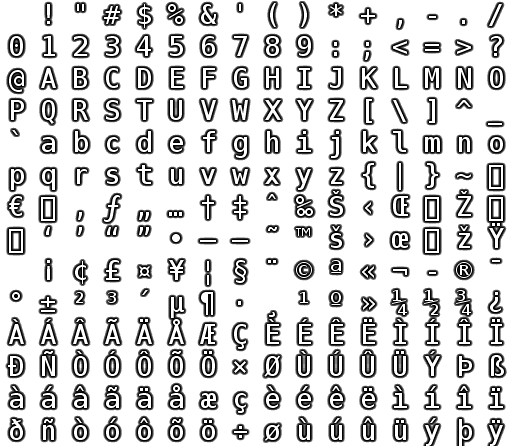
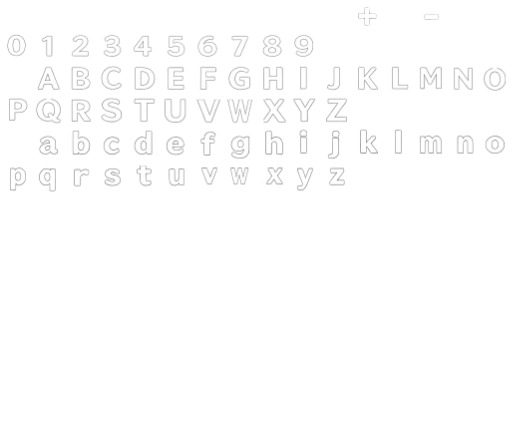
a

Changed region(s): [[0.0, 0.0, 1.0, 1.0]]

diff --git a/Source/Font.cpp b/Source/Font.cpp
@@ -58,7 +58,7 @@ void Font::Draw(
 
             0,
 
-            1, 1, 1, 1);
+           0.7,0.7,0.7, 1);
 
         drawX += CHAR_W * scale;
 
